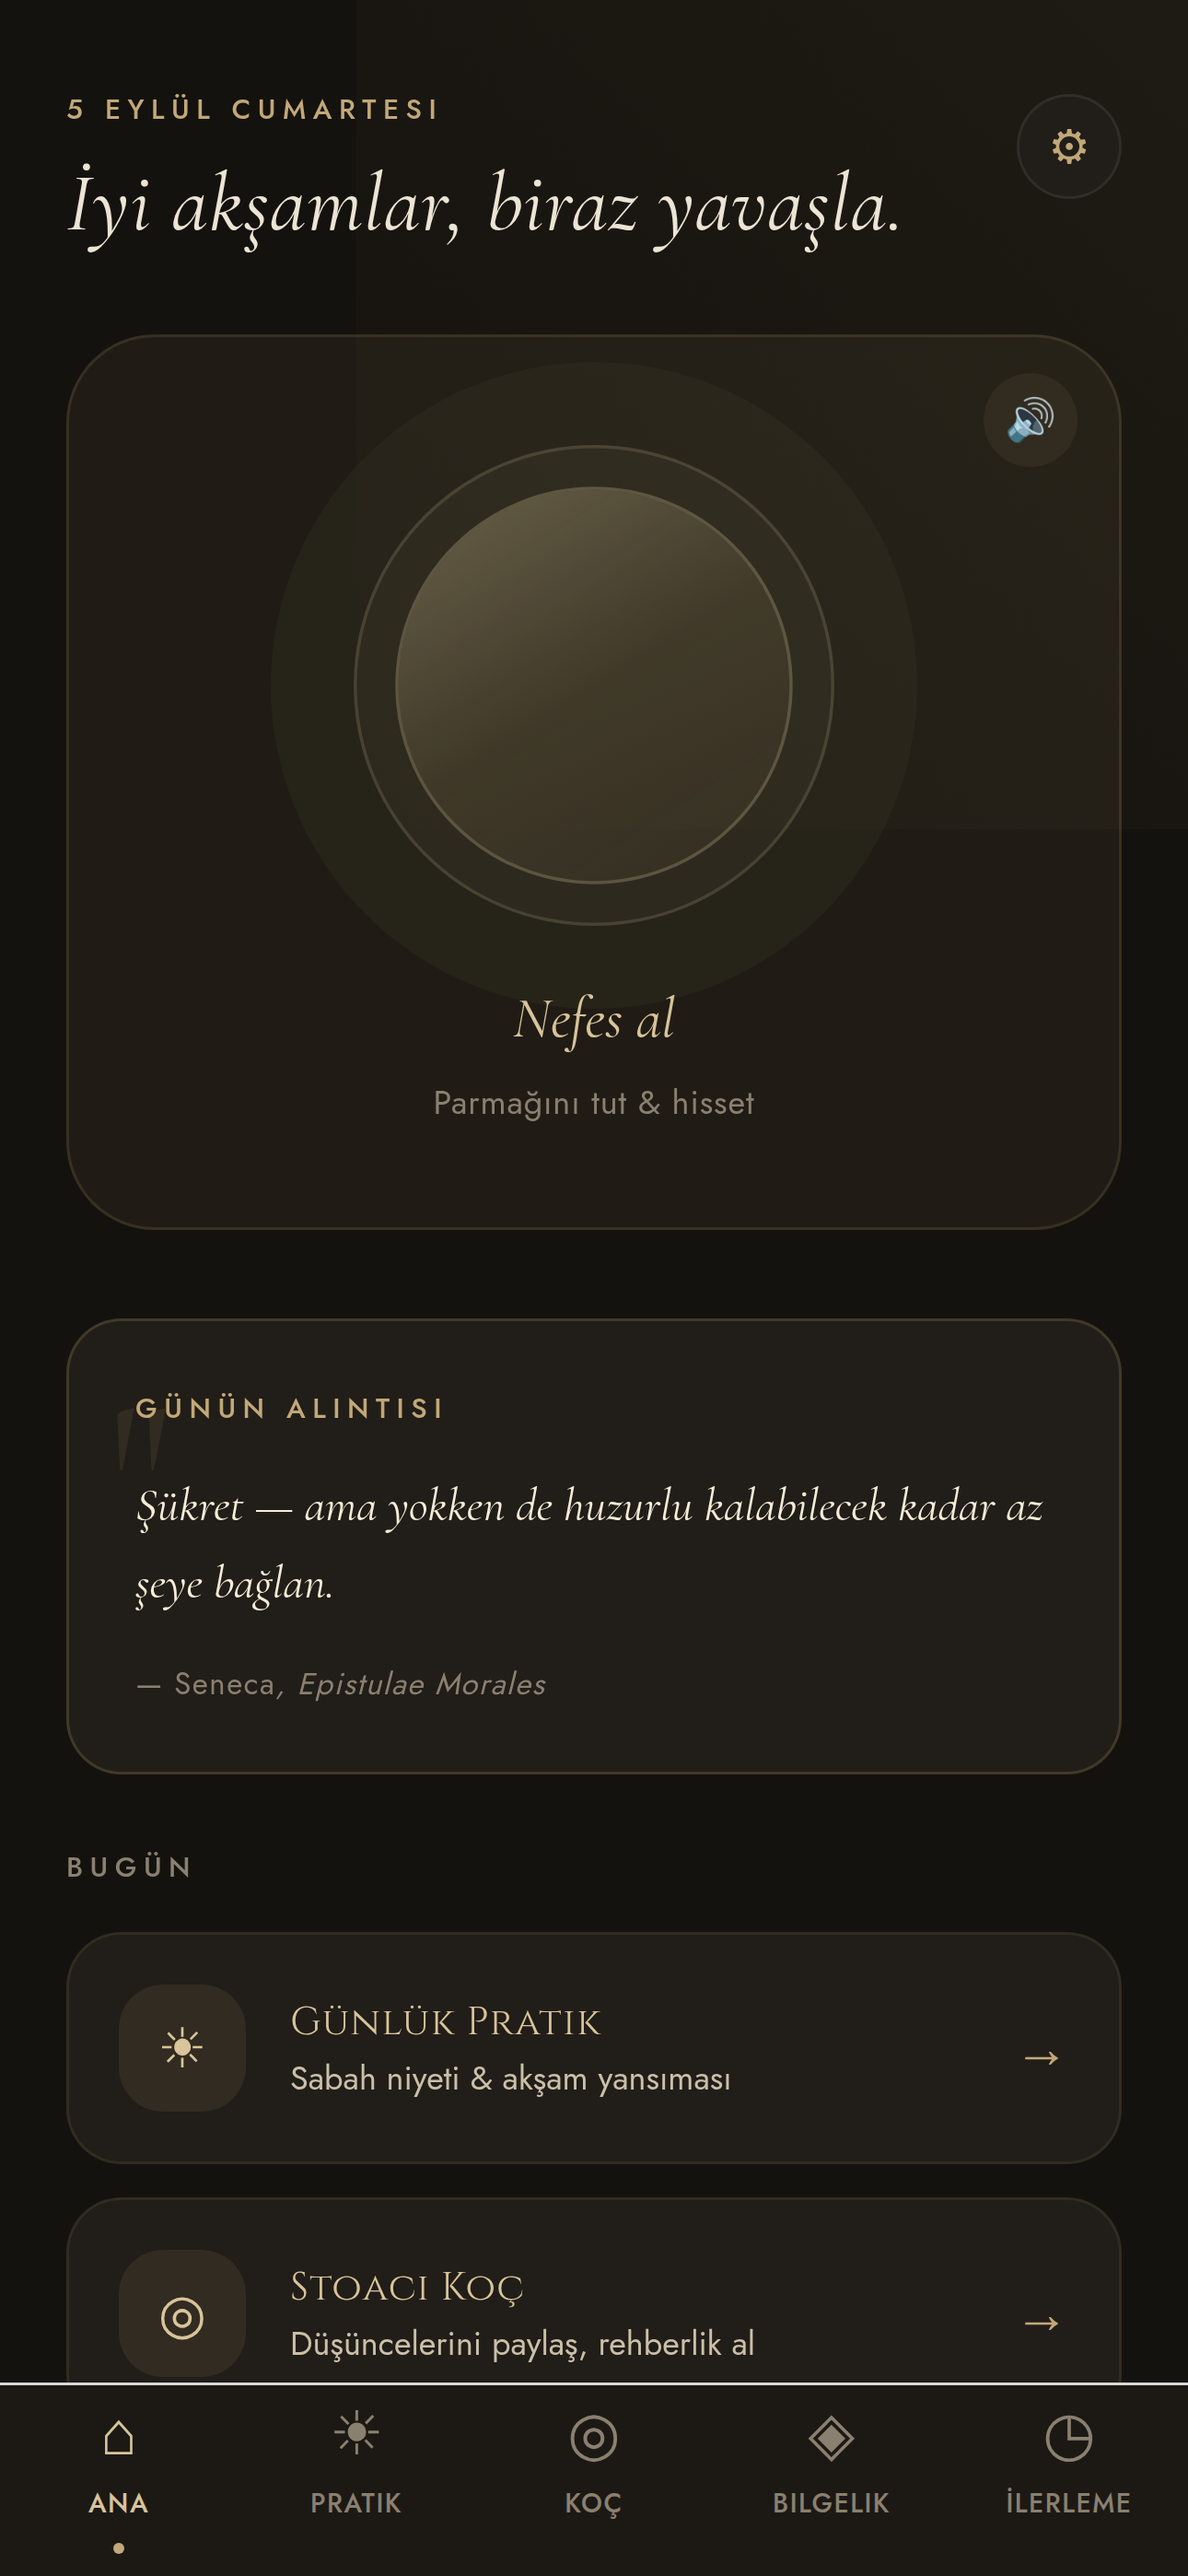
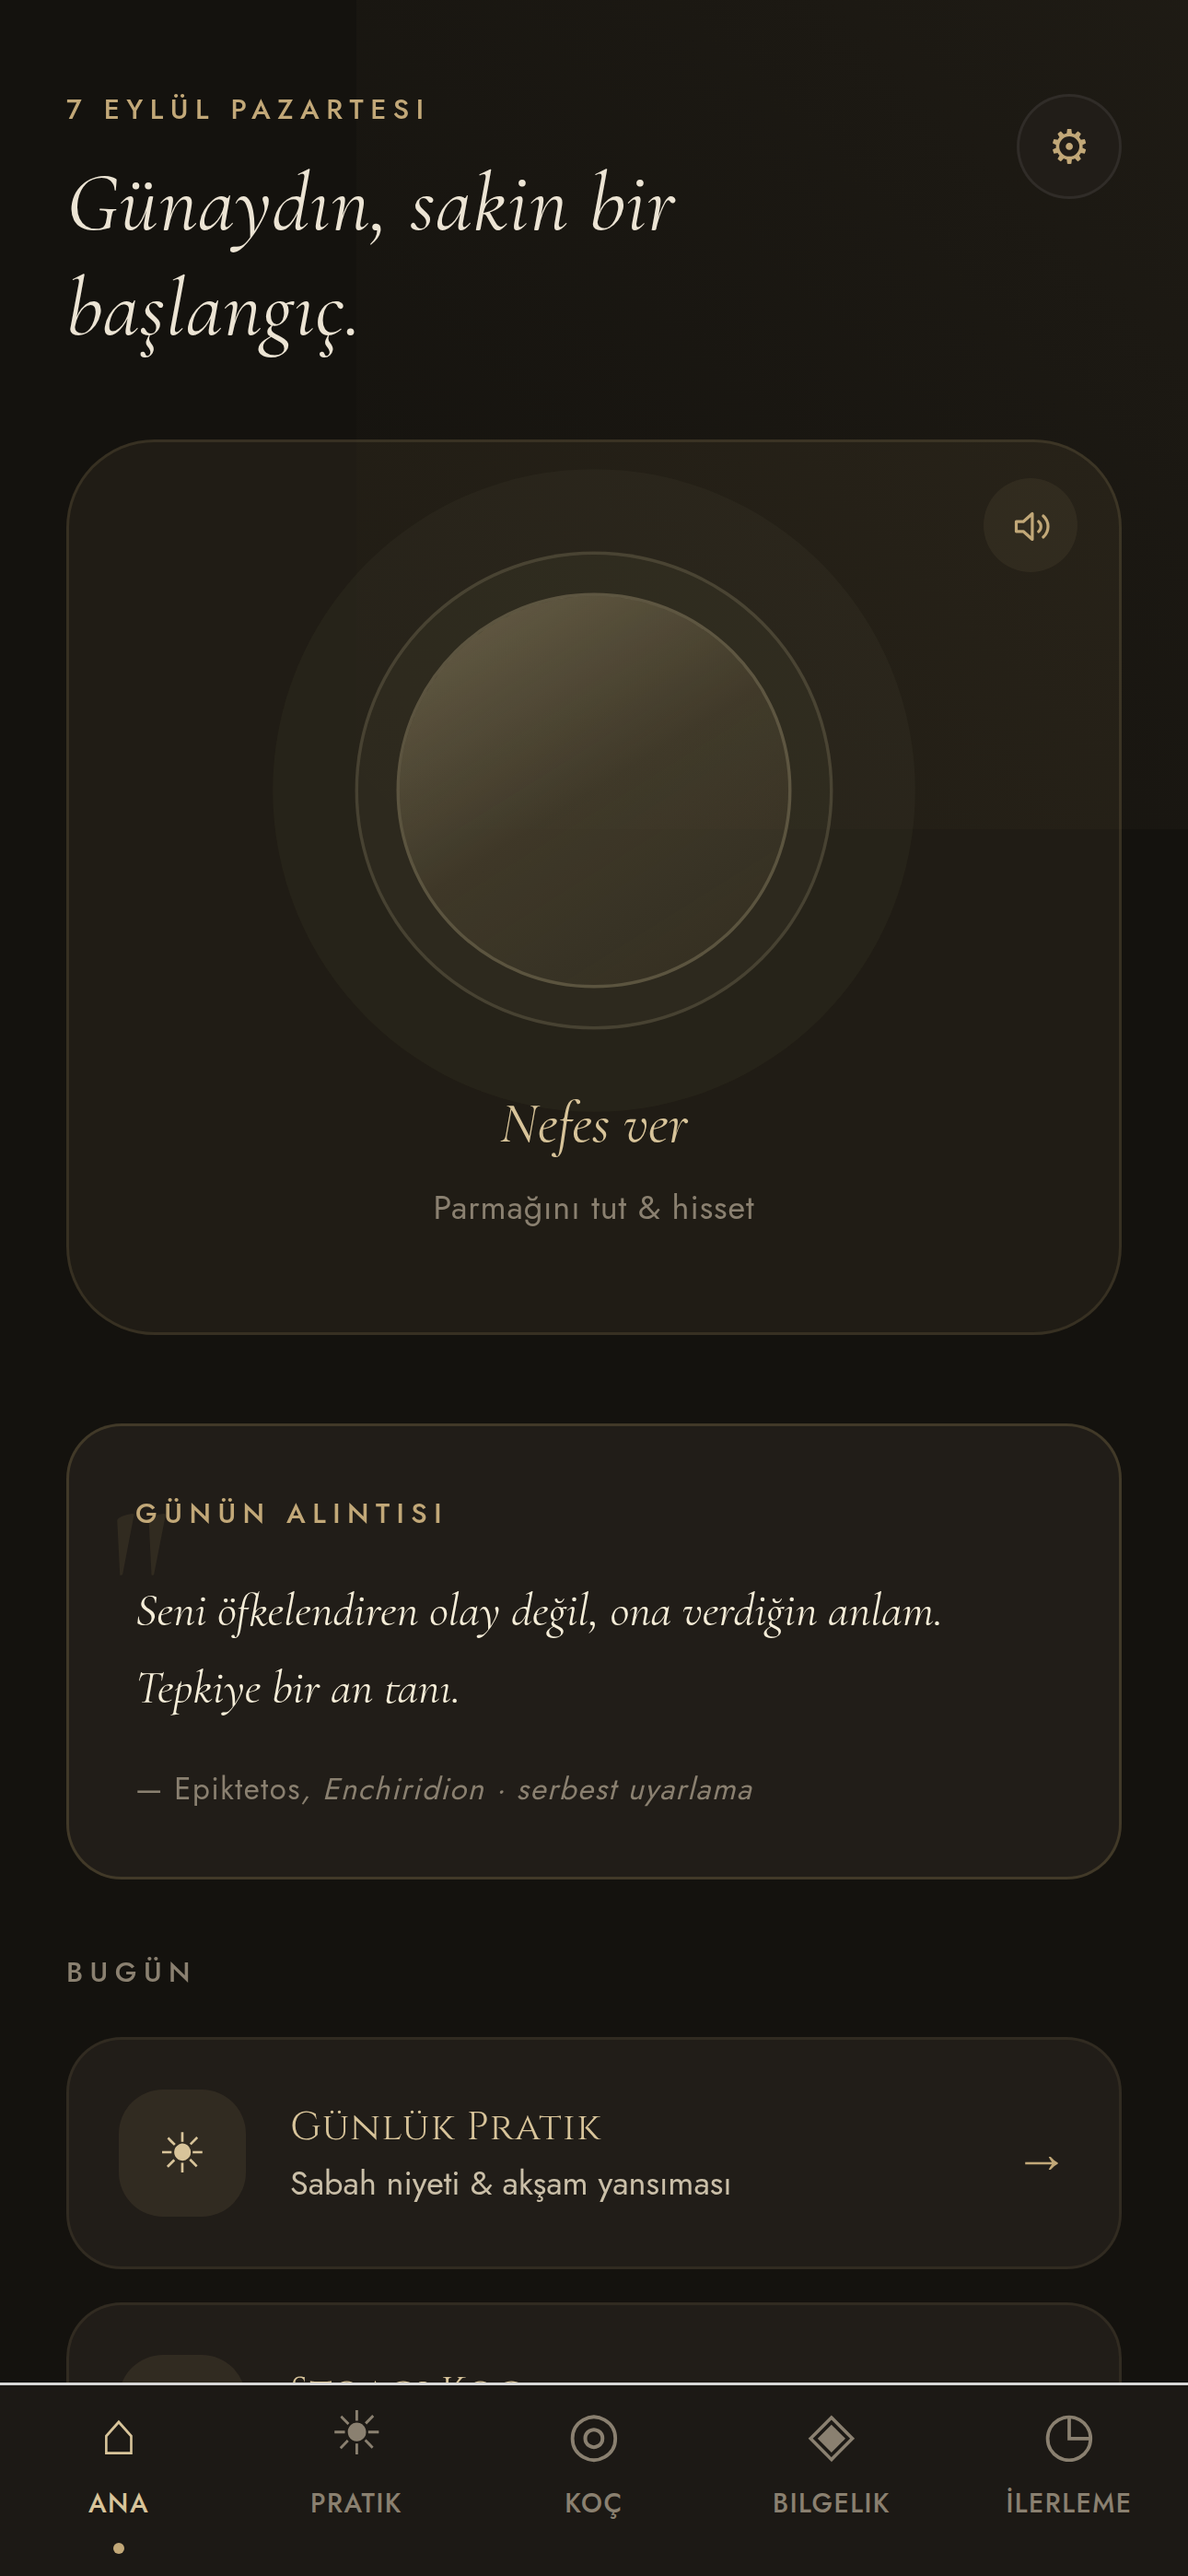
Mağaza ekran görüntülerini tazele
Mevcut görüntüler atıf düzeltmesinden ve SVG ikonlardan önce çekilmişti;
o hâliyle mağazaya giderse uygulamanın güncel hâlini göstermezdi. Zaten
store-assets/README.md bu tuzağı yazıyordu: ekranlar değişince görüntüler
eskir, önce shoot-store.js çalıştırılmalı.

Artık künyede "· serbest uyarlama" ve emoji yerine SVG ikonlar görünüyor.

Ödeme modelini gösteren iki ekran eklendi (yalnız iPhone boyutunda, mağaza
için zorunlu değil): programlar ekranı Plus kilidiyle ve Stoikos Plus ödeme
ekranı iki planla.

Claude-Session: https://claude.ai/code/session_01HjT8wZmLW9eAuP1V4jzyXX

diff --git a/store-assets/README.md b/store-assets/README.md
@@ -9,9 +9,13 @@ Playwright ile çekildi; boyutlar mağazaların istediği piksel değerlerine
 | `iphone-*` | **1290×2796** | App Store, iPhone 6.7" (zorunlu boyut) |
 | `android-*` | **1080×1920** | Google Play, telefon |
 
-Beş ekran: ana (nefes orbu + günün alıntısı), bilgelik (alıntı tekerleği),
-koç (sohbet), pratik, ilerleme. App Store en az 3, Play en az 2 istiyor —
-ikisi de karşılanıyor.
+Beş ekran her iki boyutta: ana (nefes orbu + günün alıntısı), bilgelik
+(alıntı tekerleği), koç (sohbet), pratik, ilerleme. App Store en az 3,
+Play en az 2 istiyor — ikisi de karşılanıyor.
+
+Ayrıca yalnız iPhone boyutunda iki ekran daha: `iphone-6-programs.png`
+(Plus kilidi) ve `iphone-7-plus.png` (ödeme ekranı). Bunlar mağaza için
+zorunlu değil; ödeme modelini göstermek için duruyor.
 
 ## Yeniden çekmek
 
